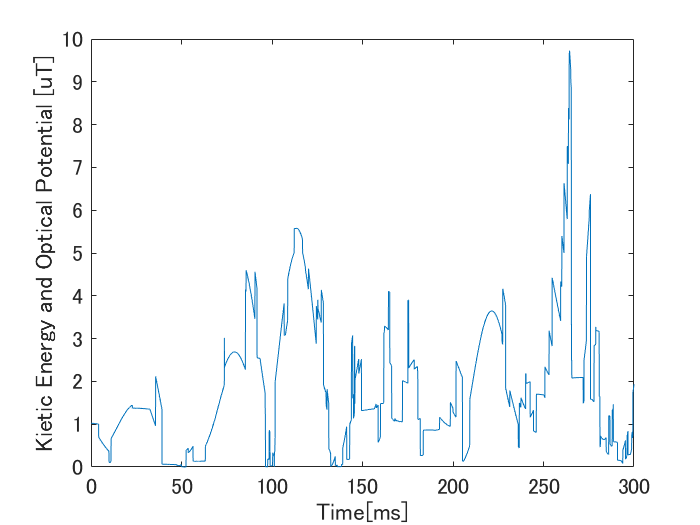
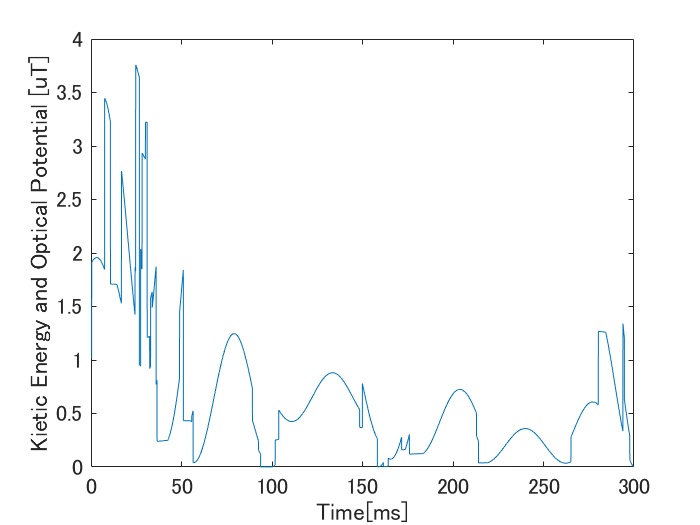
位置更新　前の速度と新しい速度の台形積分修正必要あり　0629

diff --git a/atomic_vortex/DressedAtom.h b/atomic_vortex/DressedAtom.h
@@ -36,10 +36,8 @@ private:
 	double grad_s1(double x);										// gradient of saturation parameter between |g1> and |e>
 	double grad_s2(double x);										// gradient of saturation parameter between |g2> and |e>
 	void force_dip(atom* obj);										// Optical potential
-	// void force_diss(atom* obj);										// dissipative force
 	bool spontaneous_emission(atom* obj);							// spontaneous emission
 	void recoil_diss(atom* obj);									// recoil of spontaneous emission
-	// void sisyphus_cooling(atom* obj);								// sisyphus cooling
 
 	double s1_pm(double x);											// saturation parameter between |g1> and |e> of repump
 };

diff --git a/atomic_vortex/const_param.h b/atomic_vortex/const_param.h
@@ -21,7 +21,7 @@ const int prop = -1;			//ƒr[ƒ‚Ìis•ûŒü -1:-z•ûŒü, +1:+z•
 const double detuning0 = 2.0 * M_PI * 1e9;			//—£’² ƒ¢=ƒÖ-ƒÖ_0 [rad/s]
 const double lambda = c / (384.26e12 + detuning0 / (2.0 * M_PI));				//wavelength of detuned D2 line[m]
 const double w0 = 2e-3;			//ƒr[ƒ•[m]
-const double beam_power = 300e-3;			//ƒr[ƒo—Í[W]
+const double beam_power = 100e-3;			//ƒr[ƒo—Í[W]
 
 
 //===ƒŠƒ|ƒ“ƒvŒõ ƒpƒ‰[ƒ[ƒ^[=================================================================================================================================
